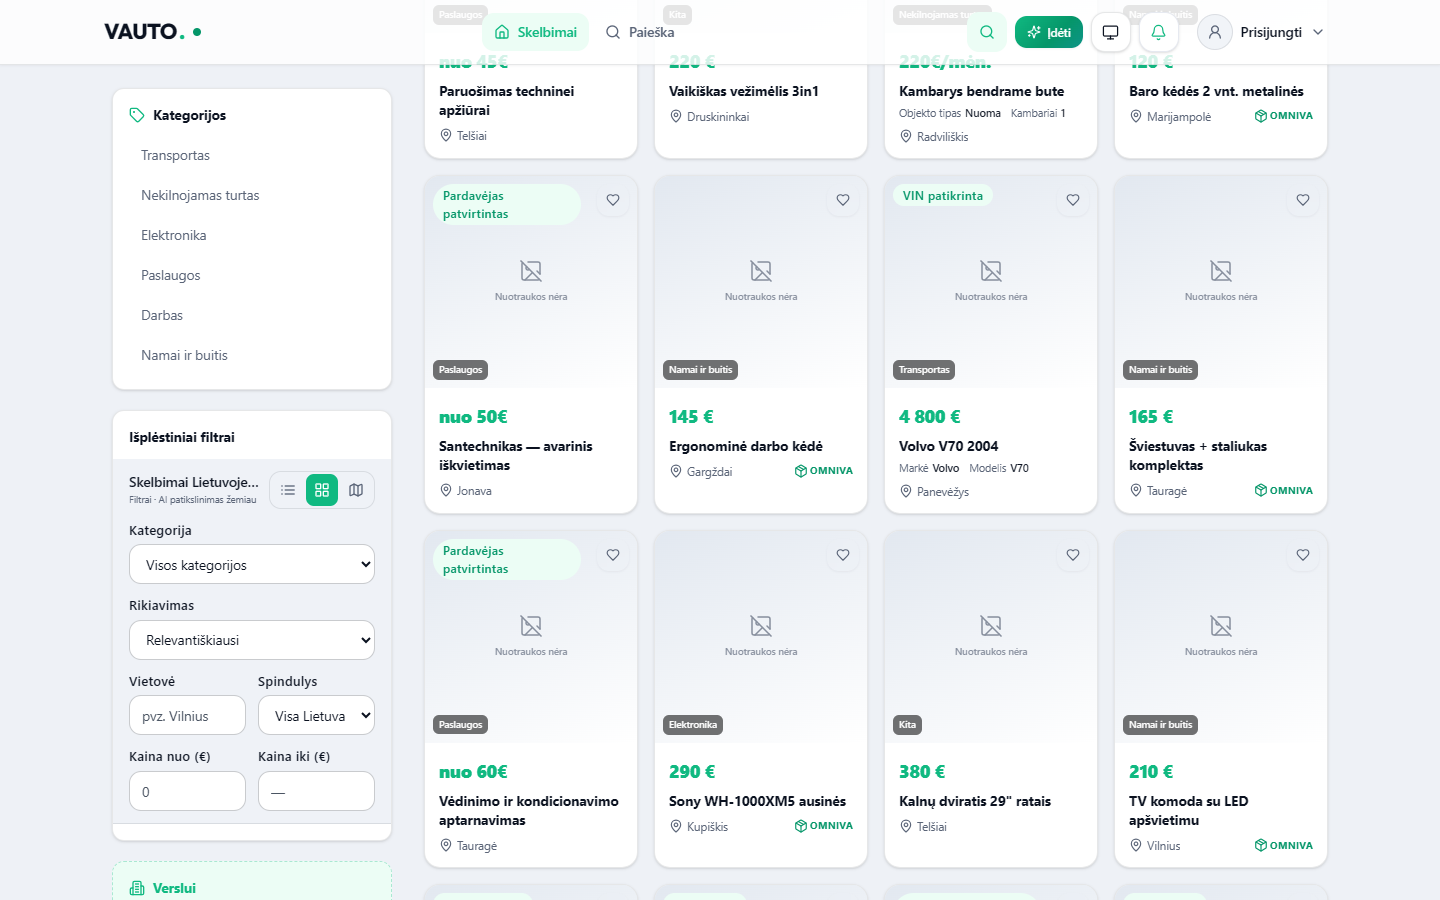
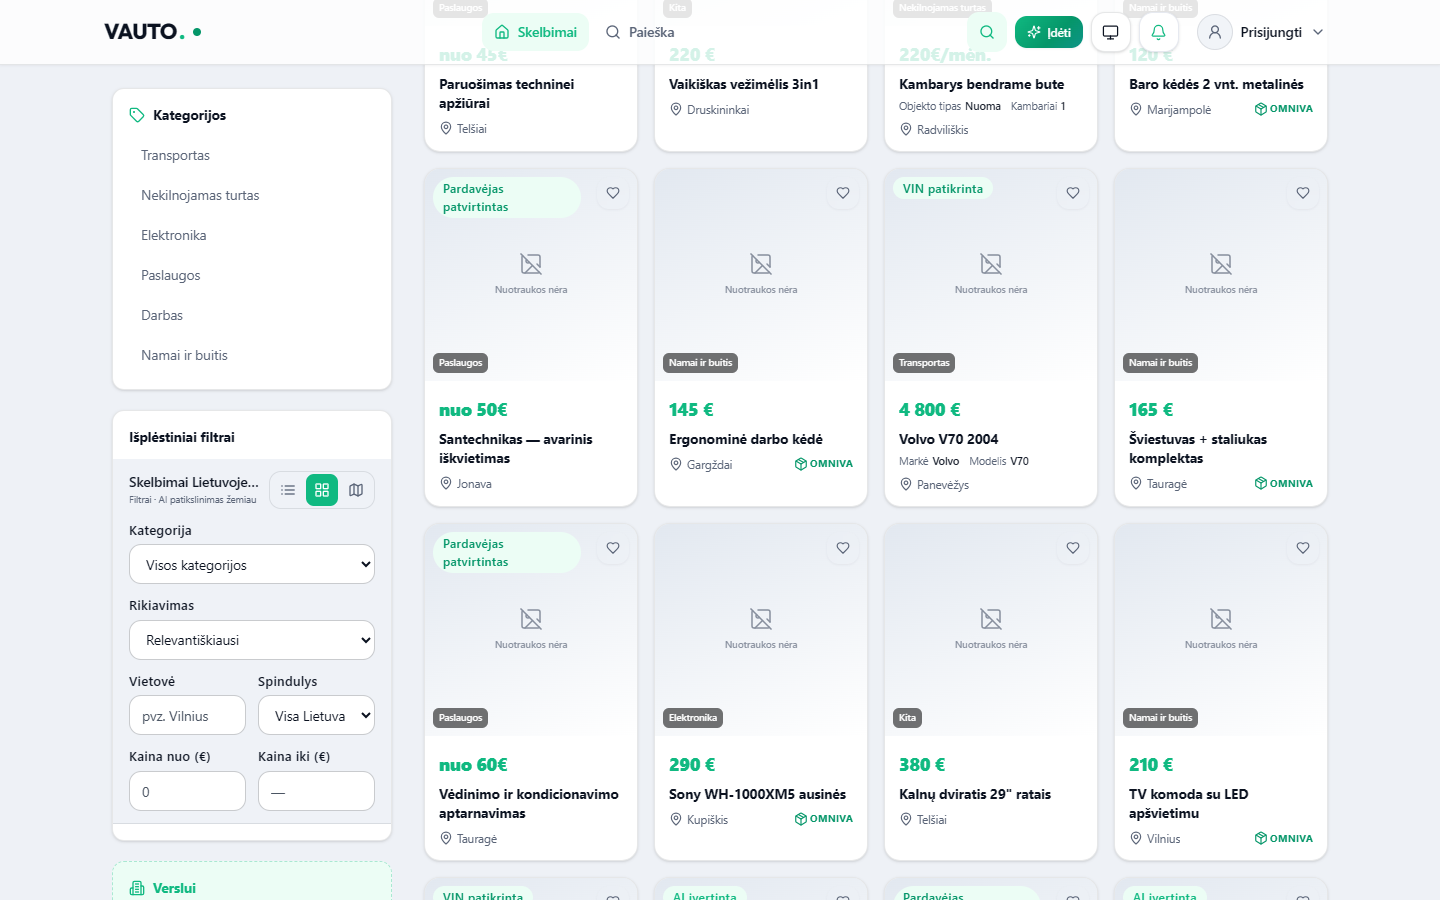
fix(ui): Kita category filter navigation and server-side list-to-detail hydration

diff --git a/tests/e2e/f7-category-cards.spec.ts b/tests/e2e/f7-category-cards.spec.ts
@@ -130,6 +130,150 @@ test.describe("F7 — kategorijų uždarymas ir kortelių hierarchija (desktop)"
     });
   });
 
+  test("„Kita“ paspaudimas pritaiko canonical other filtrą ir rodo tik other rezultatus", async ({
+    page,
+  }) => {
+    await openHome(page);
+    const kita = page.locator(
+      '[data-home-category-grid] button[data-category-id="other"]'
+    );
+    await expect(kita).toBeVisible({ timeout: 20_000 });
+    await kita.click();
+
+    // Clear navigation to the search results view with the category filter.
+    await expect(page).toHaveURL(/\/search/, { timeout: 20_000 });
+    await expect(page.locator("[data-listing-card]").first()).toBeVisible({
+      timeout: 20_000,
+    });
+    const categories = await page
+      .locator("[data-listing-card]")
+      .evaluateAll((els) =>
+        els.map((el) => el.getAttribute("data-listing-category") ?? "")
+      );
+    expect(categories.length, "other results exist").toBeGreaterThan(0);
+    for (const c of categories) {
+      expect(c, "only canonical other listings are shown").toBe("other");
+    }
+  });
+
+  test("server/API skelbimas, kurio nėra vietiniame kataloge, hidratuoja detalę pagal ID", async ({
+    page,
+  }) => {
+    const SERVER_LISTING = {
+      id: "lt-srv-999",
+      title: "Serverinis svetimas skelbimas",
+      price: 1337,
+      priceLabel: "1337 €",
+      location: "Vilnius",
+      category: "other",
+      description: "Tik serverio kataloge.",
+      images: [],
+      sellerId: "srv-seller",
+      sellerName: "Serverinis",
+      status: "active",
+      createdAt: "2026-09-01T10:00:00.000Z",
+      slug: "serverinis-svetimas-skelbimas",
+      contact: "+37060000000",
+      tags: [],
+      attributes: {},
+      allowPastomatas: true,
+    };
+    // The listing is ONLY reachable via the server single-listing endpoint —
+    // it is not in the offline/local catalog at all.
+    await page.route("**/api/listings/lt-srv-999", async (route) => {
+      await route.fulfill({
+        status: 200,
+        contentType: "application/json",
+        body: JSON.stringify(SERVER_LISTING),
+      });
+    });
+
+    await forceOfflineCatalog(page);
+    await page.goto("/listing/?id=lt-srv-999");
+    await acceptGdprConsentIfPrompted(page);
+
+    // Unified data contract: the detail hydrates the same public listing
+    // from the server instead of showing a false "not found".
+    await expect(
+      page
+        .locator("h1:visible, [data-listing-detail-title]:visible")
+        .filter({ hasText: "Serverinis svetimas skelbimas" })
+        .first()
+    ).toBeVisible({ timeout: 20_000 });
+    await expect(page.locator("[data-listing-not-found]")).toHaveCount(0);
+  });
+
+  test("kortelė iš serverinio katalogo veda į realų detalės puslapį", async ({
+    page,
+  }) => {
+    const SERVER_LISTING = {
+      id: "lt-srv-cat-1",
+      title: "Katalogo serverinis objektas",
+      price: 42,
+      priceLabel: "42 €",
+      location: "Kaunas",
+      category: "other",
+      description: "Serverinio feed objektas.",
+      images: [],
+      sellerId: "srv-seller",
+      sellerName: "Serverinis",
+      status: "active",
+      createdAt: "2026-09-01T10:00:00.000Z",
+      slug: "katalogo-serverinis-objektas",
+      contact: "+37060000001",
+      tags: [],
+      attributes: {},
+      allowPastomatas: true,
+    };
+    // Safety net FIRST (later registrations take precedence): any other API
+    // call stays offline and never leaves the machine.
+    await page.route("**/api/**", (route) =>
+      route.fulfill({ status: 404, contentType: "application/json", body: "{}" })
+    );
+    await page.route("**/api/health**", (route) =>
+      route.fulfill({
+        status: 200,
+        contentType: "application/json",
+        body: JSON.stringify({ ok: true, status: "ok" }),
+      })
+    );
+    await page.route("**/api/listings?*", (route) =>
+      route.fulfill({
+        status: 200,
+        contentType: "application/json",
+        body: JSON.stringify([SERVER_LISTING]),
+      })
+    );
+    await page.route("**/api/listings/mine**", (route) =>
+      route.fulfill({
+        status: 200,
+        contentType: "application/json",
+        body: JSON.stringify([]),
+      })
+    );
+    await page.route("**/api/listings/lt-srv-cat-1", (route) =>
+      route.fulfill({
+        status: 200,
+        contentType: "application/json",
+        body: JSON.stringify(SERVER_LISTING),
+      })
+    );
+
+    await page.goto("/");
+    await acceptGdprConsentIfPrompted(page);
+
+    const card = page.locator('[data-listing-id="lt-srv-cat-1"]').first();
+    await expect(card).toBeVisible({ timeout: 25_000 });
+    await card.locator("a[href]").first().click();
+    await expect(page).toHaveURL(/\/listing\//, { timeout: 20_000 });
+    await expect(
+      page
+        .locator("h1:visible, [data-listing-detail-title]:visible")
+        .filter({ hasText: "Katalogo serverinis objektas" })
+        .first()
+    ).toBeVisible({ timeout: 20_000 });
+  });
+
   test("kategorijų etiketės: „Mada“, „Namai ir buitis“, „Transportas“ ant kortelių", async ({
     page,
   }) => {
@@ -173,6 +317,7 @@ test.describe("F7 — kategorijų uždarymas ir kortelių hierarchija (desktop)"
     expect(priceIndex).toBeLessThan(titleIndex);
 
     // The photo block occupies the top of the card (image-first layout).
+    await card.scrollIntoViewIfNeeded();
     const mediaBox = await card.locator("a[href]").first().boundingBox();
     const bodyBox = await card.locator("h3").boundingBox();
     expect(mediaBox).toBeTruthy();

diff --git a/src/components/ListingDetailPage.tsx b/src/components/ListingDetailPage.tsx
@@ -32,6 +32,10 @@ import { SimilarListingsSection } from "@/components/listing/SimilarListingsSect
 import { resolveAiPriceSignal } from "@/components/marketplace/ListingCard";
 import { AiInsightCard, Badge, Card } from "@/design-system";
 import { formatListingPlaceLine, formatPrice } from "@/data/mockListings";
+import { apiFetchListingById } from "@/lib/api/client";
+import { isDataApiEnabled } from "@/lib/api/config";
+import { normalizeListing } from "@/lib/listing-normalize";
+import type { Listing } from "@/lib/types";
 import { useVauto } from "@/context/VautoContext";
 import { useVautoBridge } from "@/context/VautoBridge";
 import { useSellerFlow } from "@/context/SellerFlowContext";
@@ -127,10 +131,37 @@ export function ListingDetailPage({ slug: slugProp }: ListingDetailPageProps = {
   const [orderShippingOpen, setOrderShippingOpen] = useState(false);
   const [buyerTipsOpen, setBuyerTipsOpen] = useState(false);
 
-  // Prefer stable id (dashboard links); fall back to slug for SEO/pretty URLs.
+  // F7 — unified list→detail data contract. The feed catalog is a LIMITED
+  // slice (top-N / region); when the local lookup misses, the detail
+  // hydrates the SAME public listing from the server by id/slug under the
+  // same visibility rules. No per-listing exceptions; 404 means the listing
+  // truly does not exist publicly.
+  const [serverListing, setServerListing] = useState<Listing | null>(null);
+  const [serverLookupFailed, setServerLookupFailed] = useState(false);
+  useEffect(() => {
+    setServerListing(null);
+    setServerLookupFailed(false);
+    if (!hydrated || !(id || slug)) return;
+    const local = id ? findListing(id) : slug ? findListing(slug) : undefined;
+    if (local || !isDataApiEnabled()) return;
+    let cancelled = false;
+    void apiFetchListingById(id ?? slug!).then((res) => {
+      if (cancelled) return;
+      if (res.ok) setServerListing(normalizeListing(res.data));
+      else setServerLookupFailed(true);
+    });
+    return () => {
+      cancelled = true;
+    };
+    // eslint-disable-next-line react-hooks/exhaustive-deps
+  }, [hydrated, id, slug]);
+
+  // Prefer stable id (dashboard links); fall back to slug for SEO/pretty URLs;
+  // last resort: the server-side public listing fetch (limited-slice feed).
   const listing =
     (id ? findListing(id) : undefined) ??
-    (slug ? findListing(slug) : undefined);
+    (slug ? findListing(slug) : undefined) ??
+    serverListing;
 
   useEffect(() => {
     if (listing?.id && !listing.banned) {
@@ -169,6 +200,18 @@ export function ListingDetailPage({ slug: slugProp }: ListingDetailPageProps = {
   }, [listing?.id, listing?.banned, listing?.title, listing?.category, listing?.price, wardrobeContext, trackEvent]);
 
   if (!hydrated) {
+    return (
+      <AppShell variant="plain" hideNav>
+        <div className="py-12 text-center">
+          <p className="text-[var(--ds-text-muted,var(--vauto-subtle))]">Kraunama...</p>
+        </div>
+      </AppShell>
+    );
+  }
+
+  // Local lookup missed AND the server fallback is still in flight: keep the
+  // loading state (never flash a false "not found").
+  if (!listing && !serverLookupFailed && (id || slug) && isDataApiEnabled()) {
     return (
       <AppShell variant="plain" hideNav>
         <div className="py-12 text-center">

diff --git a/src/components/home/HomeAiHero.tsx b/src/components/home/HomeAiHero.tsx
@@ -1,6 +1,7 @@
 "use client";
 
 import { useCallback, useMemo, useState } from "react";
+import { useRouter } from "next/navigation";
 import { AiCommandBar } from "@/components/search/AiCommandBar";
 import { AgentChatStrip } from "@/components/home/AgentChatStrip";
 import { HomeCategoryGrid } from "@/components/home/HomeCategoryGrid";
@@ -12,6 +13,10 @@ import { useVauto } from "@/context/VautoContext";
 import { useVautoAgent } from "@/context/VautoAgentContext";
 import { useVautoSearch } from "@/context/VautoSearchContext";
 import { useCanonicalFacetQuery } from "@/hooks/useCanonicalFacetUrl";
+import {
+  normalizeMarketplaceFilters,
+  type MarketplaceFilterState,
+} from "@/lib/marketplace-view";
 import { resolveVerticalId } from "@vauto/shared/marketplace-domain";
 import { VISIBLE_CATEGORY_BY_SLUG, type VisibleCategoryId } from "@vauto/shared/category-registry";
 import { isEmbeddedAgentChatVisible } from "@/lib/agent-chat-layout";
@@ -36,6 +41,7 @@ export function HomeAiHero({
   compact = false,
 }: HomeAiHeroProps) {
   const shell = useShellChrome();
+  const router = useRouter();
   const { messages, busy, open } = useVautoAgent();
   const { setVertical } = useCanonicalFacetQuery();
   const { listings } = useVauto();
@@ -233,9 +239,24 @@ export function HomeAiHero({
             <HomeCategoryGrid
               counts={categoryCounts}
               onSelect={(query, _label, slug) => {
-                if (query) handleChip(query);
                 const verticalId = resolveVerticalId(slug);
-                if (verticalId) setVertical(verticalId);
+                if (verticalId) {
+                  if (query) handleChip(query);
+                  setVertical(verticalId);
+                  return;
+                }
+                // Categories without a canonical vertical (Mada, Kita):
+                // apply the SAME canonical category filter the filter bar
+                // uses and navigate to the search results view — the button
+                // is never a no-op, even with an empty query.
+                setMarketplaceFilters(
+                  normalizeMarketplaceFilters({
+                    ...marketplaceFilters,
+                    category: slug as MarketplaceFilterState["category"],
+                  })
+                );
+                setSearchQuery("");
+                router.push("/search");
               }}
             />
 

diff --git a/server/src/routes/api.ts b/server/src/routes/api.ts
@@ -16,6 +16,7 @@ import { pool, runInTransaction } from "../db.js";
 import { getMigrationStatus, toPublicSchemaStatus } from "../migrate.js";
 import type { AuthedRequest } from "../middleware/auth.js";
 import { fetchListingsFeed } from "../controllers/listing-controller.js";
+import { getPublicListingByIdOrSlug } from "../repository.js";
 import {
   listingNeedsPayoutMethod,
   rejectIfSellerHasNoPayout,
@@ -893,6 +894,31 @@ apiRouter.get("/listings", async (req, res) => {
       return;
     }
     res.json(page.items);
+  } catch (e) {
+    sendInternalError(res, e);
+  }
+});
+
+/**
+ * F7 — single public listing by id (or slug) for the list→detail contract.
+ * The feed catalog is a LIMITED slice; this endpoint resolves the SAME
+ * visibility rules (PUBLIC_LISTING_VISIBILITY_SQL) for any id/slug, so a
+ * shared/deep link or a card from a different catalog slice can always
+ * hydrate its detail. Hidden/deleted listings answer 404 (fail-closed).
+ */
+apiRouter.get("/listings/:id", async (req, res) => {
+  try {
+    const idOrSlug = String(req.params.id ?? "").trim();
+    if (!idOrSlug || idOrSlug.length > 200) {
+      res.status(400).json({ ok: false, code: "invalid_id" });
+      return;
+    }
+    const listing = await getPublicListingByIdOrSlug(idOrSlug);
+    if (!listing) {
+      res.status(404).json({ ok: false, code: "not_found", error: "Skelbimas nerastas." });
+      return;
+    }
+    res.json(listing);
   } catch (e) {
     sendInternalError(res, e);
   }

diff --git a/src/lib/api/client.ts b/src/lib/api/client.ts
@@ -574,6 +574,20 @@ export async function apiFetchListings(
   return dataFetch<Listing[]>(`/api/listings?${params.toString()}`);
 }
 
+/**
+ * F7 — single public listing by id (or slug). The feed catalog is a limited
+ * slice; this resolves ANY public listing under the same server visibility
+ * rules, so a card/deep link from outside the local slice still hydrates its
+ * detail. 404 → the listing truly does not exist publicly.
+ */
+export async function apiFetchListingById(
+  idOrSlug: string
+): Promise<ApiResult<Listing>> {
+  return dataFetch<Listing>(
+    `/api/listings/${encodeURIComponent(idOrSlug.trim())}`
+  );
+}
+
 export async function apiFetchAdminReviewQueue(): Promise<ApiResult<Listing[]>> {
   return dataFetch<Listing[]>("/api/admin/listings/review-queue");
 }
